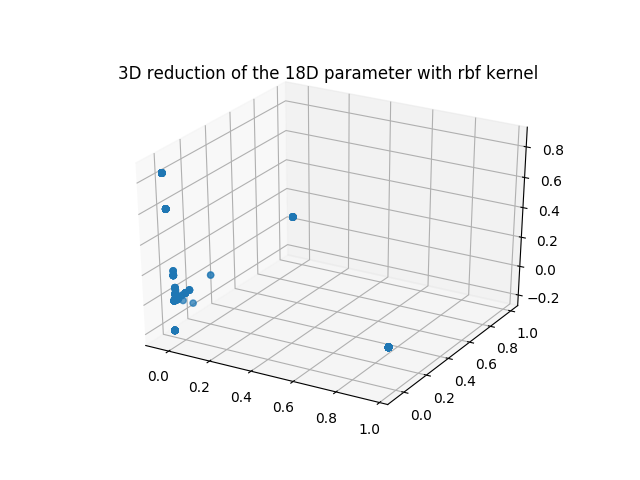
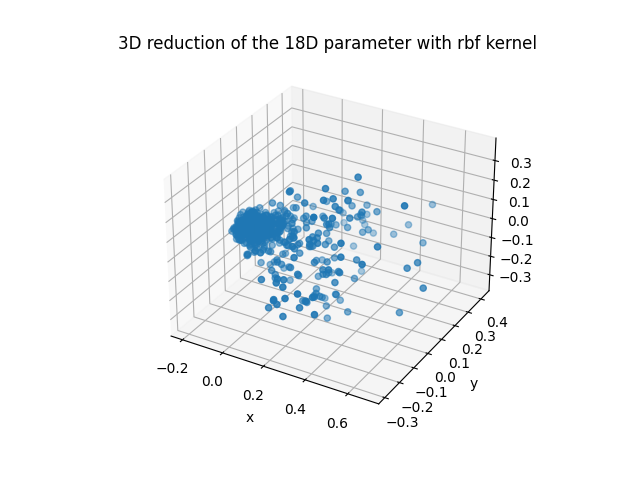
Data analysis for the first complete cycle of simulations...COMPLETE. The low energy points have the same geometry, altought the points in the dataset underwent rotational transforms

diff --git a/read_simulation_files.py b/read_simulation_files.py
@@ -30,8 +30,8 @@ if STUDY_CONVERGENCE:
     print("Reading the results about CONVERGENCE")
     # Open the file containing the list of samples
     filename = "expectations.smp"
-    if (len(sys.argv) == 2):
-        filename = "expectations_" + str(sys.argv[1]) + ".smp"
+    if (len(sys.argv) > 1):
+        filename = str(sys.argv[1])
     print("Loading:", filename)
     samples_file = open(filename, "r")
 
@@ -63,13 +63,17 @@ if STUDY_CONVERGENCE:
     plt.suptitle("Convergence analysis. Gaussian = WIN")
     plt.savefig("are_gaussians.png")
 #    plt.show()
+    plt.clf()
+    plt.cla()
 
 if DETECT_SUBMANIFOLD:
+    print("Are you working with theta = ", dlib.theta, "?")
+    input("press ENTER to continue")
     print("Searching for a SUBMANIFOLD on the CHAIN SAMPLES")
     # Open the file containing the list of samples
     filename = "markovchain.smp"
-    if (len(sys.argv) == 2):
-        filename = "markovchain_" + str(sys.argv[1]) + ".smp"
+    if (len(sys.argv) == 3):
+        filename = str(sys.argv[1])
     print("Loading:", filename)
     samples_file = open(filename, "r")
 
@@ -94,8 +98,14 @@ if DETECT_SUBMANIFOLD:
     ax = fig.add_subplot(111, projection='3d')
     ax.scatter(reducedXrbf[:,0], reducedXrbf[:,1], reducedXrbf[:,2])
     plt.title("3D reduction of the " + str(m) + "D parameter with rbf kernel")
+    plt.xlabel("x")
+    plt.ylabel("y")
+#    plt.zlabel("z")
+    plt.grid()
     plt.savefig("tmp_ALLDATA.png")
 #    plt.show()    
+    plt.clf()
+    plt.cla()
 
     reconstructedX = kpcaRBF.inverse_transform(reducedXrbf)
     print("Reconstructing error: ", norm(X - reconstructedX))
@@ -143,10 +153,15 @@ if DETECT_SUBMANIFOLD:
     fig = plt.figure()
     ax = fig.add_subplot(111, projection='3d')
     ax.scatter(lowX[:,0], lowX[:,1], lowX[:,2], color='red')
-    plt.title("Distribution of the low energy points in" +\
-          "the 3D reduced space")
-    plt.savefig("tmp_MANIFOLD.png")
+    plt.title("Low energy point distribution, reduced to 3D")
+    plt.xlabel("x")
+    plt.ylabel("y")
+  #  plt.zlabel("x")
+    plt.grid()
+    plt.savefig("reduction3D.png")
 #    plt.show()
+    plt.clf()
+    plt.cla()
 
     # Perform a classic PCA reduction on the low-energy space,
     # which seem to be located on a line...
@@ -160,12 +175,21 @@ if DETECT_SUBMANIFOLD:
     print("PCA error: ", norm(minimumX - pcaLOW.inverse_transform(minimumX)))
 
 
-
-    pcaLOW = PCA(n_components=2)
-    pcaLOW.fit(lowX)
-    pcaLOW.explained_variance_ratio_
+    # Perform a linear PCA to reduce lowX to a 2D plane
+    pca2DLOW = PCA(n_components=2)
+    pca2DLOW.fit(lowX)
+    pca2DLOW.explained_variance_ratio_
     print("How well do the points fit a plane? ",
-                        sum(pcaLOW.explained_variance_ratio_)* 100, "%")
+                        sum(pca2DLOW.explained_variance_ratio_)* 100, "%")
+    lowX2D = pca2DLOW.transform(lowX)
+    #ax.scatter(lowX2D[:, 0], lowX2D[:, 1])
+    plt.scatter(lowX2D[:, 0], lowX2D[:, 1])
+    plt.xlabel("x")
+    plt.ylabel("y")
+    plt.grid()
+    plt.title("Low energy points distribution, reduced to 2D. Theta = " +\
+                    str(dlib.theta))
+    plt.savefig("reduction2D.png")
 
    # minimumX = pcaLOW.transform(lowX)
    # print("PCA error: ", norm(minimumX - pcaLOW.inverse_transform(minimumX)))

diff --git a/datalib.py b/datalib.py
@@ -11,7 +11,7 @@ from numpy import cos, sin
 
 my_seed = 2
 N_points = 10
-theta = 240 #120 #0 #120 # 240
+theta = 0 #120 #240 #120 #0 #120 # 240
 
 
 ###############################
